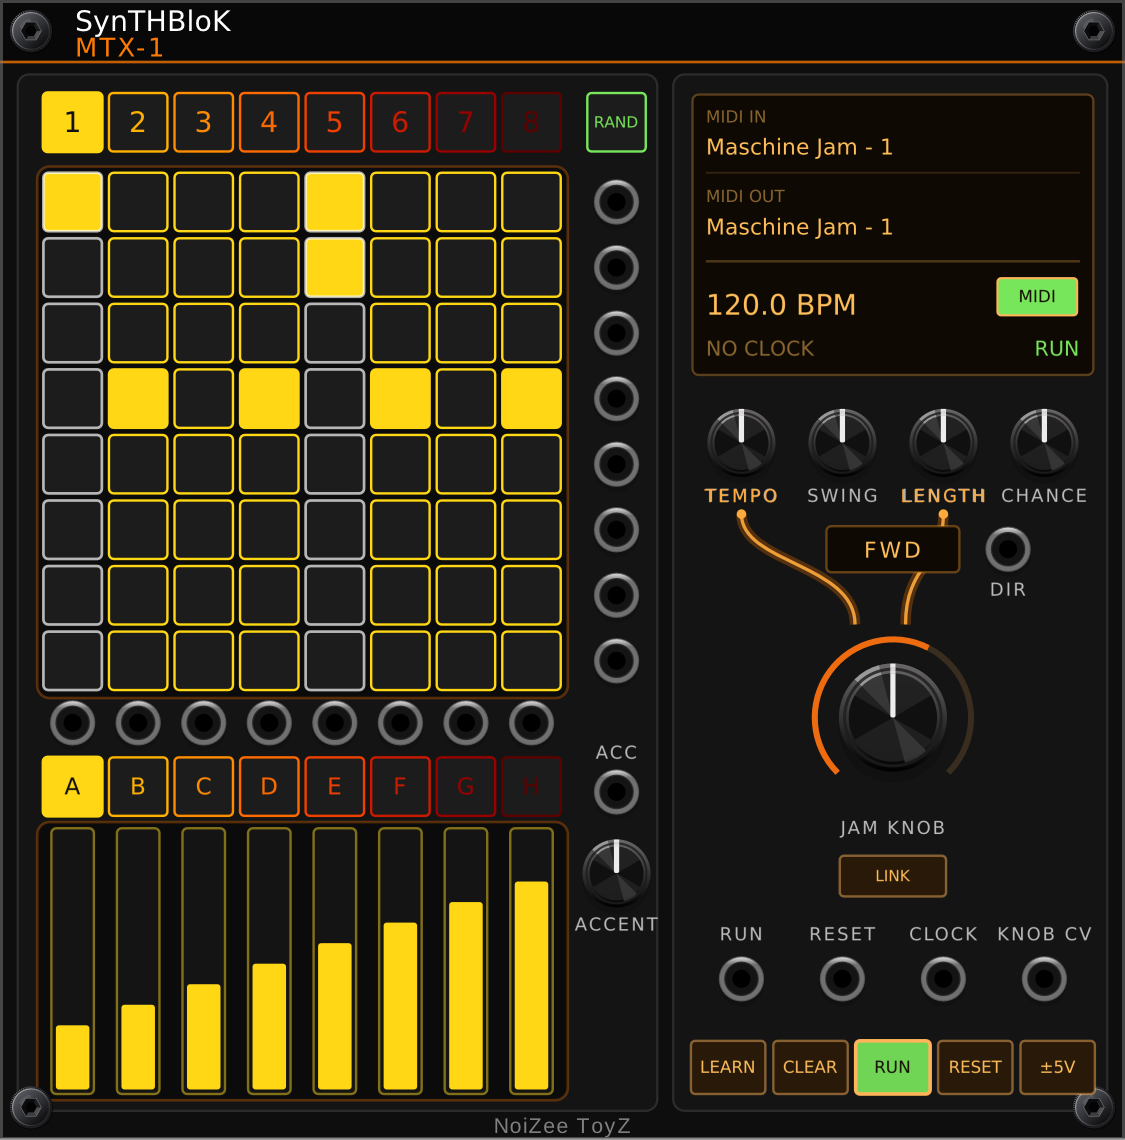
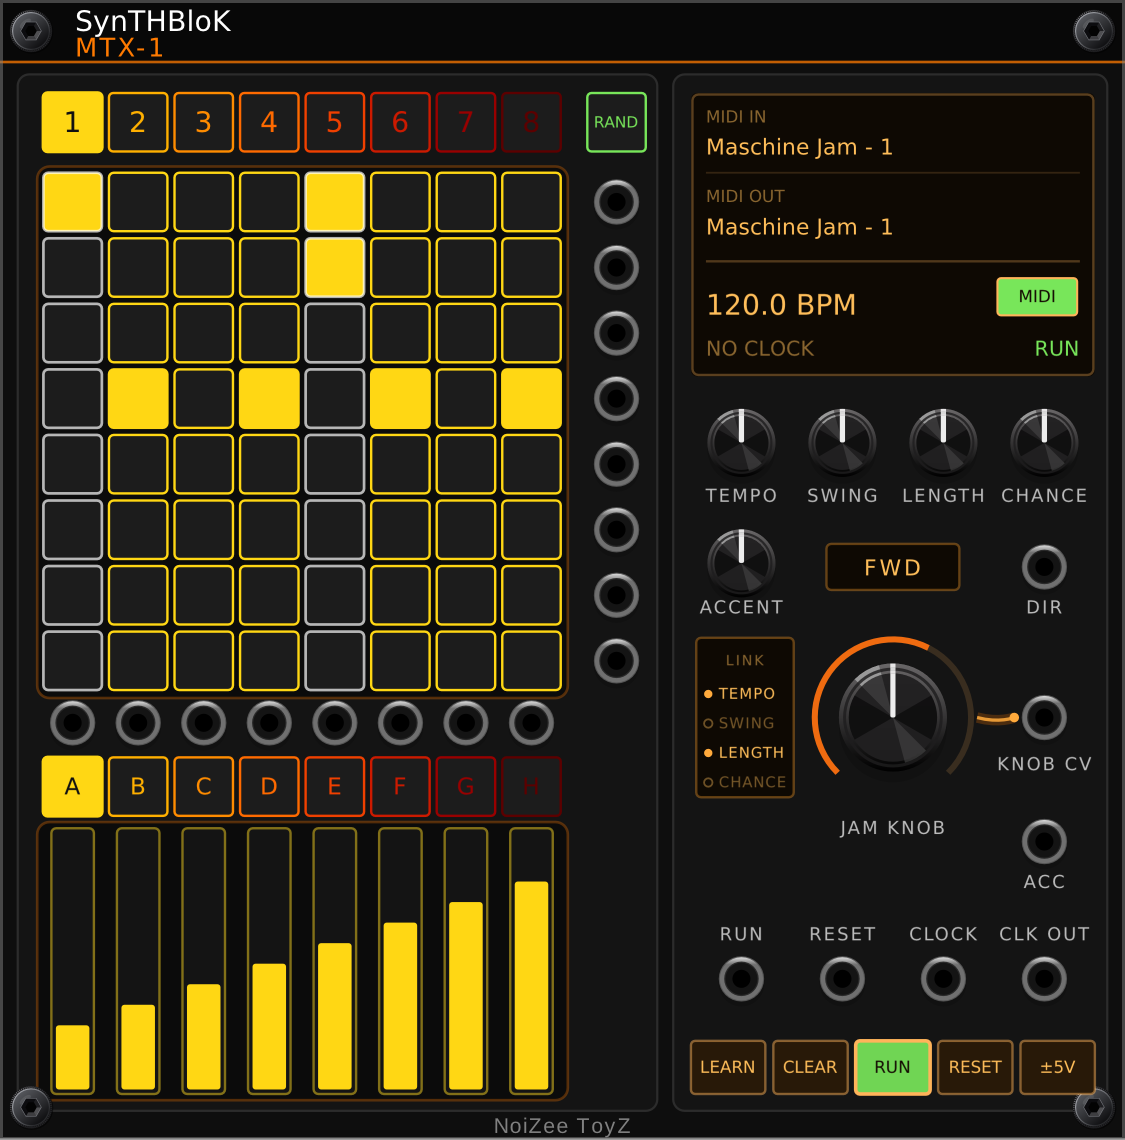
MTX-1: LINK screen beside the JAM KNOB, KNOB CV beside it, CLOCK OUT by CLOCK in, ACCENT + ACC on the right panel, jacks lined up

diff --git a/src/SynTHBloKJam.cpp b/src/SynTHBloKJam.cpp
@@ -57,7 +57,7 @@ struct SynTHBloKJam : Module {
                     BANK_PARAM, RANGE_PARAM, BONC_PARAM, BOFFC_PARAM, RUN_PARAM, RESET_PARAM, KNOB_PARAM, BPM_PARAM,
                     SWING_PARAM, DIR_PARAM, CHANCE_PARAM, RAND_PARAM, LINK_PARAM, MIDI_ON_PARAM, ACCENT_PARAM, NUM_PARAMS };   // (BPM on: MTX-1, Nov 16 2026)
     enum InputIds { CLOCK_INPUT, RESET_INPUT, RUN_INPUT, DIR_INPUT, NUM_INPUTS };   // (DIR: MTX-1, Nov 16 2026)
-    enum OutputIds { TRIG_OUTPUT, STRIP_OUTPUT = TRIG_OUTPUT + 8, KNOB_OUTPUT = STRIP_OUTPUT + 8, ACC_OUTPUT, NUM_OUTPUTS };   // (ACC: MTX-1)
+    enum OutputIds { TRIG_OUTPUT, STRIP_OUTPUT = TRIG_OUTPUT + 8, KNOB_OUTPUT = STRIP_OUTPUT + 8, ACC_OUTPUT, CLOCK_OUTPUT, NUM_OUTPUTS };   // (ACC: MTX-1)
     enum LightIds { NUM_LIGHTS };
 
     midi::InputQueue midiIn;
@@ -69,6 +69,7 @@ struct SynTHBloKJam : Module {
     bool pat[8][8][8];
     bool acc[8][8] = {};   // accented steps, per pattern [pattern][step]
     float accHold = 0.f, accLevel = 0.f;
+    dsp::PulseGenerator clkOut;   // CLOCK OUT
     tempolink::Link tlink;   // the shared internal clock (BPM_PARAM, CLOCK unpatched)
     // JAM KNOB LINK: bit i = the i-th of TEMPO / SWING / LENGTH / CHANCE follows the JAM KNOB's moves (relative: a turn of the
     // whole JAM KNOB moves a linked knob across its whole range; each keeps its own place). Float shadows so LENGTH's snapping
@@ -174,8 +175,9 @@ struct SynTHBloKJam : Module {
         // jack gives the ACCENT level for half a step on accented steps (a VCA, a filter, drum velocity)
         configParam(ACCENT_PARAM, 0.f, 1.f, 0.8f, "Accent level (ACC out on accented steps; Ctrl-click a pad to accent its step)", " V", 0.f, 10.f);
         configOutput(ACC_OUTPUT, "Accent (the ACCENT level on accented steps, for half a step)");
+        configOutput(CLOCK_OUTPUT, "Clock out (a 16th pulse from MTX-1's clock while it runs: its own tempo, or CLOCK in)");   // (Nick: "also clock out")
         configSwitch(MIDI_ON_PARAM, 0.f, 1.f, 1.f, "JAM MIDI (off = ignore the JAM, its lights dark)", {"Off", "On"});   // (as the COMPOSER, MTX-8 ...)
-        configSwitch(LINK_PARAM, 0.f, 1.f, 0.f, "Link: on, click TEMPO / SWING / LENGTH / CHANCE to link or unlink them to the JAM KNOB; off when done", {"Done", "Choosing"});
+        configSwitch(LINK_PARAM, 0.f, 1.f, 0.f, "(unused: the LINK screen picks the JAM KNOB's links)", {"Off", "On"});   // (kept: saved patches keep their ids)
         paramQuantities[LEN_PARAM]->snapEnabled = true;
         for (int i = 0; i < CLEAR_PARAM; i++) paramQuantities[i]->snapEnabled = true;
         paramQuantities[BANK_PARAM]->snapEnabled = true;
@@ -391,6 +393,7 @@ struct SynTHBloKJam : Module {
         // DIRECTION: the DIR jack picks it when patched (four 2.5 V zones), else the panel's
         dirNow = inputs[DIR_INPUT].isConnected() ? clamp((int) (inputs[DIR_INPUT].getVoltage() / 2.5f), 0, 3)
                                                  : clamp((int) std::round(params[DIR_PARAM].getValue()), 0, 3);
+        if (clk && running) clkOut.trigger(1e-3f);
         if (clk && running) {
             int len = clamp((int)params[LEN_PARAM].getValue(), 1, 8);
             int dir = dirNow;
@@ -413,6 +416,7 @@ struct SynTHBloKJam : Module {
         }
         if (swingWait > 0.f) { swingWait -= args.sampleTime; if (swingWait <= 0.f) fireStep(swingStep); }
         for (int r = 0; r < 8; r++) outputs[TRIG_OUTPUT + r].setVoltage(pulse[r].process(args.sampleTime) ? 10.f : 0.f);
+        outputs[CLOCK_OUTPUT].setVoltage(clkOut.process(args.sampleTime) ? 10.f : 0.f);
         if (accHold > 0.f) accHold -= args.sampleTime;
         outputs[ACC_OUTPUT].setVoltage(accHold > 0.f ? accLevel : 0.f);
 
@@ -916,65 +920,73 @@ struct M1DirScreen : app::ParamWidget {
     void onHoverScroll(const HoverScrollEvent& e) override { step(e.scrollDelta.y > 0.f ? 1 : -1); e.consume(this); }
 };
 
-// LINK art (MTX-1): amber lines from the JAM KNOB up to each linked knob and the linked knobs' labels lit; while LINK is on,
-// a click on a knob's label row links / unlinks it (small rings show which can be picked)
-struct M1LinkArt : Widget {   // (a plain Widget: clicks it doesn't want go on to the knobs)
-    SynTHBloKJam* module = NULL;
-    float kx[4] = {}, ky = 0.f, ly = 0.f, jx = 0.f, jy = 0.f, jr = 0.f;   // px: small knobs, their label row, the JAM KNOB
-    bool choosing() { return module && module->params[SynTHBloKJam::LINK_PARAM].getValue() > 0.5f; }
-    int mask() { return module ? module->linkMask : 5; }   // (the module browser shows TEMPO + LENGTH linked)
-    void draw(const DrawArgs& args) override {   // the wires, under the knobs and DIR (this widget sits below them)
+// MTX-1: the JAM KNOB's line to its KNOB CV jack (always tied; Nick: "a line to the jack it's tied to all the time"), drawn
+// under the knob, ending in a dot over the jack's label
+struct M1KnobWire : TransparentWidget {
+    float jx = 0.f, jy = 0.f, jr = 0.f, ex = 0.f, ey = 0.f;   // px: the knob's centre / radius, the end over the jack label
+    void draw(const DrawArgs& args) override {
         NVGcontext* vg = args.vg;
-        for (int i = 0; i < 4; i++) {
-            if (mask() >> i & 1) {   // from the JAM KNOB's rim up to under the label, a soft glow then a bright core
-                float x0 = jx + (kx[i] - jx) * 0.25f, y0 = jy - jr, x1 = kx[i], y1 = ly + 6.f;
-                for (int pass = 0; pass < 2; pass++) {
-                    nvgBeginPath(vg);
-                    nvgMoveTo(vg, x0, y0);
-                    nvgBezierTo(vg, x0, y0 - (y0 - y1) * 0.55f, x1, y1 + (y0 - y1) * 0.45f, x1, y1);
-                    nvgStrokeColor(vg, pass ? nvgRGBA(255, 170, 60, 230) : nvgRGBA(255, 122, 0, 70));
-                    nvgStrokeWidth(vg, pass ? 1.1f : 3.5f);
-                    nvgStroke(vg);
-                }
-                nvgBeginPath(vg); nvgCircle(vg, x1, y1, 1.6f); nvgFillColor(vg, nvgRGB(255, 170, 60)); nvgFill(vg);
-            }
+        float x0 = jx + jr, y0 = jy;   // from the knob's right edge across to the jack
+        for (int pass = 0; pass < 2; pass++) {
+            nvgBeginPath(vg);
+            nvgMoveTo(vg, x0, y0);
+            nvgBezierTo(vg, x0 + (ex - x0) * 0.6f, y0 + 2.f, ex, ey - (ey - y0) * 0.6f, ex, ey);
+            nvgStrokeColor(vg, pass ? nvgRGBA(255, 170, 60, 220) : nvgRGBA(255, 122, 0, 60));
+            nvgStrokeWidth(vg, pass ? 1.1f : 3.5f);
+            nvgStroke(vg);
         }
+        nvgBeginPath(vg); nvgCircle(vg, ex, ey, 1.6f); nvgFillColor(vg, nvgRGB(255, 170, 60)); nvgFill(vg);
     }
-    void drawLayer(const DrawArgs& args, int layer) override {   // over everything: pick rings, lit labels
+};
+
+// MTX-1 LINK screen (Nick: "that info on an OLED next to the knob where users select preferences"): TEMPO / SWING / LENGTH /
+// CHANCE, one row each; click a row to link / unlink it to the JAM KNOB (lit = linked: the JAM KNOB moves it)
+struct M1LinkScreen : OpaqueWidget {
+    SynTHBloKJam* module = NULL;
+    static constexpr float TOP = 0.26f;   // of the height: the LINK title above the rows
+    void draw(const DrawArgs& args) override {
+        nvgBeginPath(args.vg);
+        nvgRoundedRect(args.vg, 0.f, 0.f, box.size.x, box.size.y, 1.6f);
+        nvgFillColor(args.vg, nvgRGBA(14, 9, 3, 255));
+        nvgFill(args.vg);
+        nvgStrokeColor(args.vg, nvgRGBA(255, 160, 40, 90));
+        nvgStrokeWidth(args.vg, 0.8f);
+        nvgStroke(args.vg);
+    }
+    void drawLayer(const DrawArgs& args, int layer) override {
         if (layer != 1) return;
+        std::shared_ptr<window::Font> font = APP->window->uiFont;
+        if (!font) return;
         NVGcontext* vg = args.vg;
-        bool ch = choosing();
+        float W = box.size.x, H = box.size.y, rowH = H * (1.f - TOP) / 4.f;
+        int mask = module ? module->linkMask : 5;
+        nvgFontFaceId(vg, font->handle);
+        nvgTextAlign(vg, NVG_ALIGN_CENTER | NVG_ALIGN_MIDDLE);
+        nvgFontSize(vg, 5.5f); nvgTextLetterSpacing(vg, 0.6f);
+        nvgFillColor(vg, nvgRGBA(255, 190, 90, 130));
+        nvgText(vg, W * 0.5f, H * TOP * 0.55f, "LINK", NULL);
         static const char* N[4] = {"TEMPO", "SWING", "LENGTH", "CHANCE"};
         for (int i = 0; i < 4; i++) {
-            bool on = mask() >> i & 1;
-            if (ch) {   // pick rings round the labels while choosing
-                nvgBeginPath(vg);
-                nvgRoundedRect(vg, kx[i] - 13.f, ly - 5.f, 26.f, 10.f, 2.f);
-                nvgStrokeColor(vg, on ? nvgRGB(255, 170, 60) : nvgRGBA(255, 170, 60, 110));
-                nvgStrokeWidth(vg, 0.8f);
-                nvgStroke(vg);
-            }
-            if (on) {   // the label lit
-                std::shared_ptr<window::Font> font = APP->window->uiFont;
-                if (!font) continue;
-                nvgFontFaceId(vg, font->handle);
-                nvgFontSize(vg, 7.f);
-                nvgTextLetterSpacing(vg, 0.8f);
-                nvgTextAlign(vg, NVG_ALIGN_CENTER | NVG_ALIGN_MIDDLE);
-                nvgFillColor(vg, nvgRGB(255, 170, 60));
-                nvgText(vg, kx[i], ly, N[i], NULL);
-            }
+            bool on = mask >> i & 1;
+            float y = H * TOP + rowH * (i + 0.5f);
+            nvgBeginPath(vg); nvgCircle(vg, 4.f, y, 1.4f);
+            if (on) { nvgFillColor(vg, nvgRGB(255, 170, 60)); nvgFill(vg); }
+            else { nvgStrokeColor(vg, nvgRGBA(255, 190, 90, 100)); nvgStrokeWidth(vg, 0.6f); nvgStroke(vg); }
+            nvgFontSize(vg, 5.8f); nvgTextLetterSpacing(vg, 0.3f);
+            nvgTextAlign(vg, NVG_ALIGN_LEFT | NVG_ALIGN_MIDDLE);
+            nvgFillColor(vg, on ? nvgRGBA(255, 190, 90, 255) : nvgRGBA(255, 190, 90, 110));
+            nvgText(vg, 7.5f, y, N[i], NULL);
         }
     }
     void onButton(const ButtonEvent& e) override {
-        if (module && choosing() && e.action == GLFW_PRESS && e.button == GLFW_MOUSE_BUTTON_LEFT && std::fabs(e.pos.y - ly) < 6.f) {
-            for (int i = 0; i < 4; i++) if (std::fabs(e.pos.x - kx[i]) < 13.f) {
-                module->linkMask ^= 1 << i;
-                e.consume(this);
-                return;
-            }
+        if (module && e.action == GLFW_PRESS && e.button == GLFW_MOUSE_BUTTON_LEFT) {
+            float H = box.size.y, rowH = H * (1.f - TOP) / 4.f;
+            int i = (int) ((e.pos.y - H * TOP) / rowH);
+            if (e.pos.y >= H * TOP && i >= 0 && i < 4) module->linkMask ^= 1 << i;
+            e.consume(this);
+            return;
         }
-        Widget::onButton(e);
+        OpaqueWidget::onButton(e);
     }
 };
 
@@ -1153,13 +1165,6 @@ struct SynTHBloKJamWidget : ModuleWidget {
             addOutput(createOutputCentered<SmallJack>(mm2px(Vec(69.6f, 22.8f + 7.4f * r)), module, SynTHBloKJam::TRIG_OUTPUT + r));
         for (int i = 0; i < 8; i++) {
             addOutput(createOutputCentered<SmallJack>(mm2px(Vec(colX(i) + 3.3f, 81.6f)), module, SynTHBloKJam::STRIP_OUTPUT + i));
-        // ACCENT (MTX-1): the ACC out and its level, in the free column under the trigger outs
-        if (i == 7) {
-            label(69.6f, 85.f, "ACC");
-            addOutput(createOutputCentered<SmallJack>(mm2px(Vec(69.6f, 89.4f)), module, SynTHBloKJam::ACC_OUTPUT));
-            addParam(createParamCentered<RoundSmallBlackKnob>(mm2px(Vec(69.6f, 98.6f)), module, SynTHBloKJam::ACCENT_PARAM));
-            label(69.6f, 104.4f, "ACCENT");
-        }
             JBankSq* q = createWidget<JBankSq>(mm2px(Vec(colX(i), 85.5f)));
             q->box.size = mm2px(Vec(6.6f, 6.6f));
             q->module = module; q->b = i;
@@ -1220,12 +1225,18 @@ struct SynTHBloKJamWidget : ModuleWidget {
                 label(x, 56.f, KN[i]);
             }
             // DIR: the label on the faceplate, the small direction screen, the DIR CV jack
-            M1DirScreen* d = createParam<M1DirScreen>(mm2px(Vec(RC - 7.5f, 59.4f)), module, SynTHBloKJam::DIR_PARAM);
+            M1DirScreen* d = createParam<M1DirScreen>(mm2px(Vec(RC - 7.5f, 61.4f)), module, SynTHBloKJam::DIR_PARAM);
             d->box.size = mm2px(Vec(15.f, 5.2f));
             d->jam = module;
             addParam(d);
-            addInput(createInputCentered<SmallJack>(mm2px(Vec(RC + 13.f, 62.f)), module, SynTHBloKJam::DIR_INPUT));
-            label(RC + 13.f, 66.6f, "DIR");   // the faceplate label, under its jack (clear of the LINK wires)
+            const float JC = RX + RW * 3.5f / 4.f;   // the right-hand jack column (DIR, KNOB CV, CLK OUT line up; Nick: "line jacks up")
+            addInput(createInputCentered<SmallJack>(mm2px(Vec(JC, 64.f)), module, SynTHBloKJam::DIR_INPUT));
+            label(JC, 68.6f, "DIR");
+            // ACCENT (Nick: "organize onto the same panel"): its knob left of the DIR screen, its ACC out in the jack column
+            addParam(createParamCentered<RoundSmallBlackKnob>(mm2px(Vec(RX + RW * 0.5f / 4.f, 63.6f)), module, SynTHBloKJam::ACCENT_PARAM));
+            label(RX + RW * 0.5f / 4.f, 68.6f, "ACCENT");
+            addOutput(createOutputCentered<SmallJack>(mm2px(Vec(JC, 95.f)), module, SynTHBloKJam::ACC_OUTPUT));
+            label(JC, 99.6f, "ACC");   // the faceplate label, under its jack (clear of the LINK wires)
         }
 
         // Knob synced with the JAM's knob (its CV output is in the jack row). (Nov 16 2026, Nick: "space out the knobs for some
@@ -1236,25 +1247,23 @@ struct SynTHBloKJamWidget : ModuleWidget {
         addChild(ring);
         addParam(createParamCentered<RoundLargeBlackKnob>(mm2px(Vec(RC, KY)), module, SynTHBloKJam::KNOB_PARAM));
         label(RC, KY + 12.5f, "JAM KNOB");
-        // LINK: the JAM KNOB's link to TEMPO / SWING / LENGTH / CHANCE (a latch: on = choosing), and the art showing it
+        // LINK screen left of the JAM KNOB, and the knob's line to its KNOB CV jack (under the knob)
         {
-            JAmberBtn* lb = createParam<JAmberBtn>(mm2px(Vec(RC - 6.f, KY + 15.6f)), module, SynTHBloKJam::LINK_PARAM);
-            lb->box.size = mm2px(Vec(12.f, 4.6f));
-            lb->fontSize = 6.f;
-            lb->jam = module; lb->label = "LINK"; lb->latch = true; lb->green = false; lb->jack = -1;
-            addParam(lb);
-            M1LinkArt* la = new M1LinkArt;
-            la->module = module;
-            la->box.pos = mm2px(Vec(RX, 44.f));
-            la->box.size = mm2px(Vec(RW, KY - 44.f));
-            for (int i = 0; i < 4; i++) la->kx[i] = mm2px(RW * (i + 0.5f) / 4.f);
-            la->ky = mm2px(50.f - 44.f); la->ly = mm2px(56.f - 44.f);
-            la->jx = mm2px(RW * 0.5f); la->jy = mm2px(KY - 44.f); la->jr = mm2px(10.5f);
-            if (firstRowKnob) addChildBelow(la, firstRowKnob); else addChild(la);
+            M1LinkScreen* ls = createWidget<M1LinkScreen>(mm2px(Vec(RX + 0.6f, KY - 9.f)));
+            ls->box.size = mm2px(Vec(11.f, 18.f)); ls->module = module;
+            addChild(ls);
+            const float JC = RX + RW * 3.5f / 4.f;   // KNOB CV right of the knob (Nick: "move knob cv next to knob"), in the jack column
+            addOutput(createOutputCentered<SmallJack>(mm2px(Vec(JC, KY)), module, SynTHBloKJam::KNOB_OUTPUT));
+            label(JC, KY + 5.3f, "KNOB CV");
+            M1KnobWire* kw = new M1KnobWire;
+            kw->box.pos = mm2px(Vec(RX, KY - 12.f)); kw->box.size = mm2px(Vec(RW, 24.f));
+            kw->jx = mm2px(RC - RX); kw->jy = mm2px(12.f); kw->jr = mm2px(9.5f);
+            kw->ex = mm2px(JC - RX - 3.4f); kw->ey = mm2px(12.f);
+            if (firstRowKnob) addChildBelow(kw, firstRowKnob); else addChild(kw);
         }
 
         // All right-panel jacks in one row just above the buttons, labels on top.
-        const char* JNAME[4] = {"RUN", "RESET", "CLOCK", "KNOB CV"};
+        const char* JNAME[4] = {"RUN", "RESET", "CLOCK", "CLK OUT"};   // (CLK OUT by CLOCK in; KNOB CV is by its knob now)
         for (int i = 0; i < 4; i++) {
             float x = RX + RW * (i + 0.5f) / 4.f;
             label(x, 105.5f, JNAME[i]);
@@ -1262,7 +1271,7 @@ struct SynTHBloKJamWidget : ModuleWidget {
                 const int JIN[3] = {SynTHBloKJam::RUN_INPUT, SynTHBloKJam::RESET_INPUT, SynTHBloKJam::CLOCK_INPUT};
                 addInput(createInputCentered<SmallJack>(mm2px(Vec(x, 110.5f)), module, JIN[i]));
             } else {
-                addOutput(createOutputCentered<SmallJack>(mm2px(Vec(x, 110.5f)), module, SynTHBloKJam::KNOB_OUTPUT));
+                addOutput(createOutputCentered<SmallJack>(mm2px(Vec(x, 110.5f)), module, SynTHBloKJam::CLOCK_OUTPUT));
             }
         }
     }
